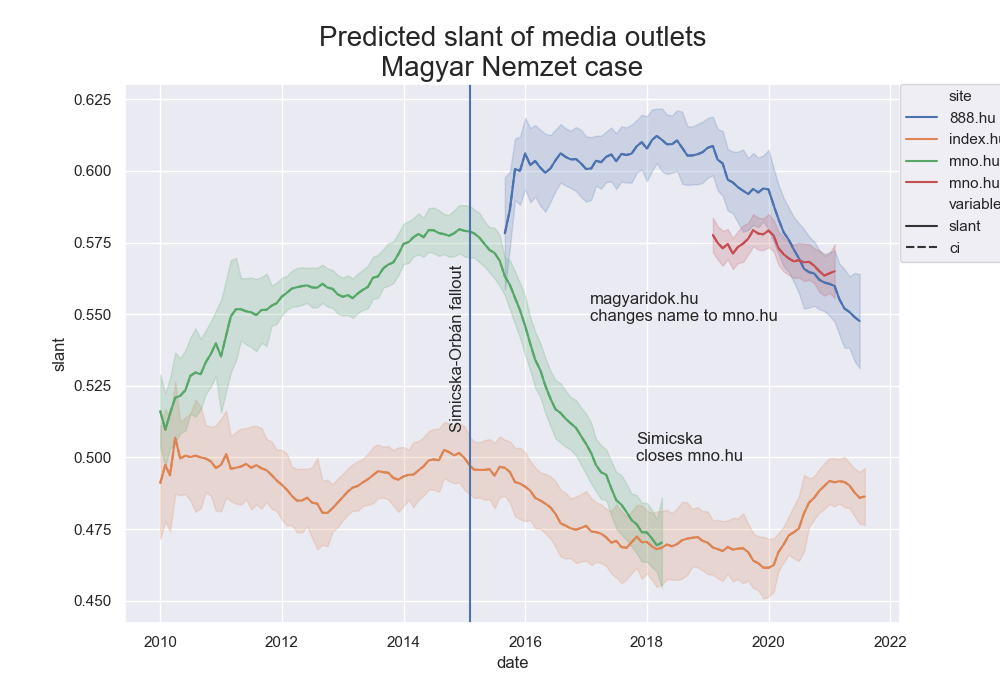
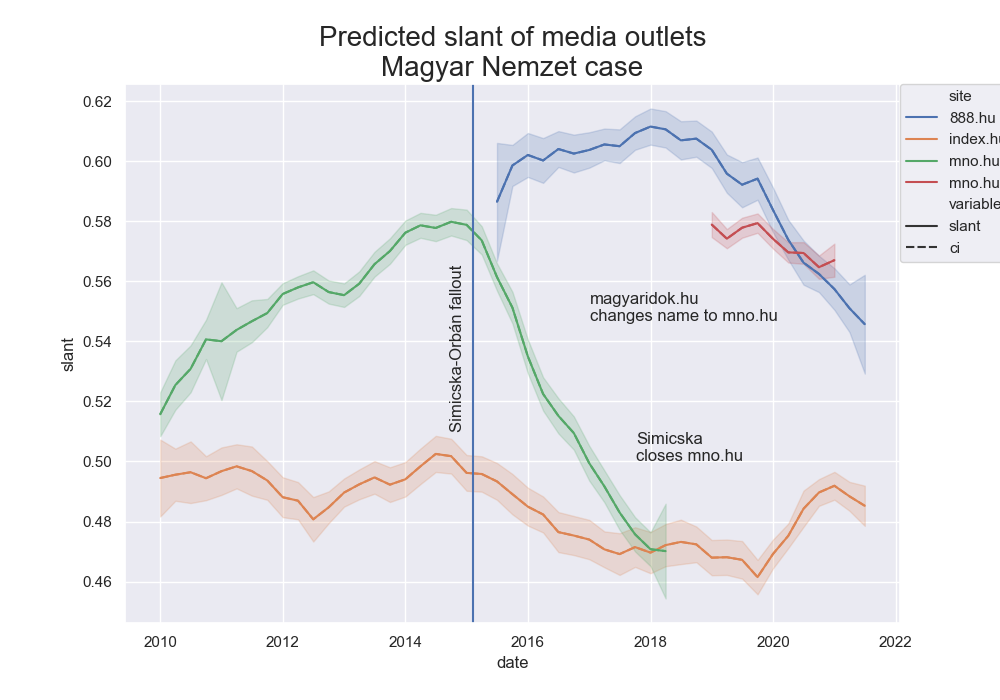
aggregate media estimates to Q

diff --git a/code/plots/plot_case_studies.py b/code/plots/plot_case_studies.py
@@ -10,9 +10,9 @@ warnings.filterwarnings("ignore")
 def format_data(df):
     return (
         df.assign(
-            site=lambda x: x["site_month"].str.split("_").str[0],
+            site=lambda x: x["site_quarter"].str.split("_").str[0],
             date=lambda x: pd.to_datetime(
-                x["site_month"].str.split("_").str[1:3].str.join(sep=""), format="%Y-%m"
+                df["site_quarter"].str.replace(" ", "").str.split("_").str[1]
             ),
             se=lambda x: x["se.fit"],
             slant=lambda x: x["fit"],
@@ -44,7 +44,7 @@ def detrend_time_series(df):
     )
 
 
-def smooth_time_series(df, alpha=0.12):
+def smooth_time_series(df, alpha=0.3):
     return df.assign(slant=df.groupby("site")["slant"].ewm(alpha=alpha).mean().values)
 
 
@@ -72,7 +72,7 @@ def melt_data_for_figure(df, z_score=1.96):
 def execute_formating():
     df = pd.concat(
         [
-            pd.read_csv("data/slant_estimates/monthly_slant_pred_" + str(year) + ".csv")
+            pd.read_csv("data/slant_estimates/Q_slant_pred_" + str(year) + ".csv")
             for year in range(2010, 2022)
         ]
     ).loc[lambda x: x["se.fit"] != 0]
